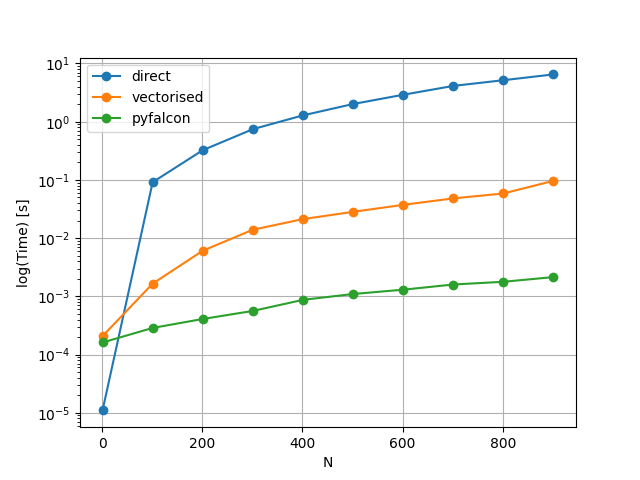
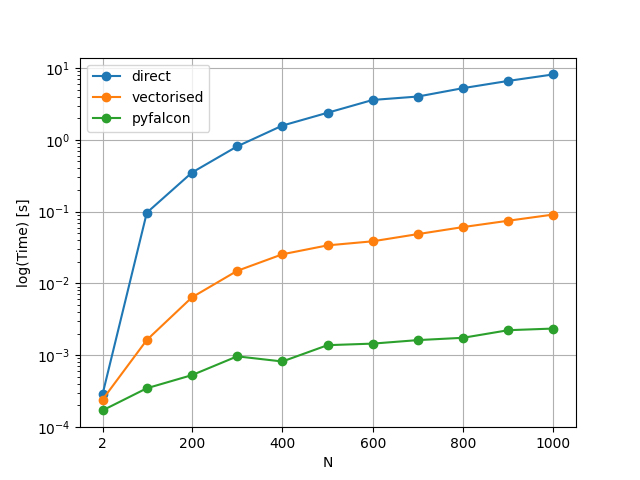
mod plot

diff --git a/assignment2/benchmark.py b/assignment2/benchmark.py
@@ -6,8 +6,9 @@ from fireworks.ic import ic_random_uniform as ic
 import time
 from tqdm import tqdm
 
-
-overwrite= True
+# overwrite let's you save the results in a file
+# 
+overwrite= False
 
 def get_time(func,x):
     t1=time.perf_counter()
@@ -18,7 +19,7 @@ def get_time(func,x):
     return dt
 
 # Select a grid of values for the number of particles to test.
-N   = np.arange(1,1e3,100)
+N   = [2] + [i for i in range(100,10_000,500)]
 #N = [1,100,1e3,5e3,1e4]
 # For each N, generate random initial conditions using the function you added in fireworks in task A.
 position_bound = [-100,200]
@@ -57,11 +58,12 @@ plt.grid()
 plt.xlabel("N")
 plt.ylabel("log(Time) [s]")
 plt.yscale("log")
+plt.xticks([2]+[i for i in range(200,1001,200)])
 
 
 plt.legend()
 
-#plt.savefig("benchmark_plot2.png")
+plt.savefig("benchmark_plot2.png")
 
 plt.show()
 
